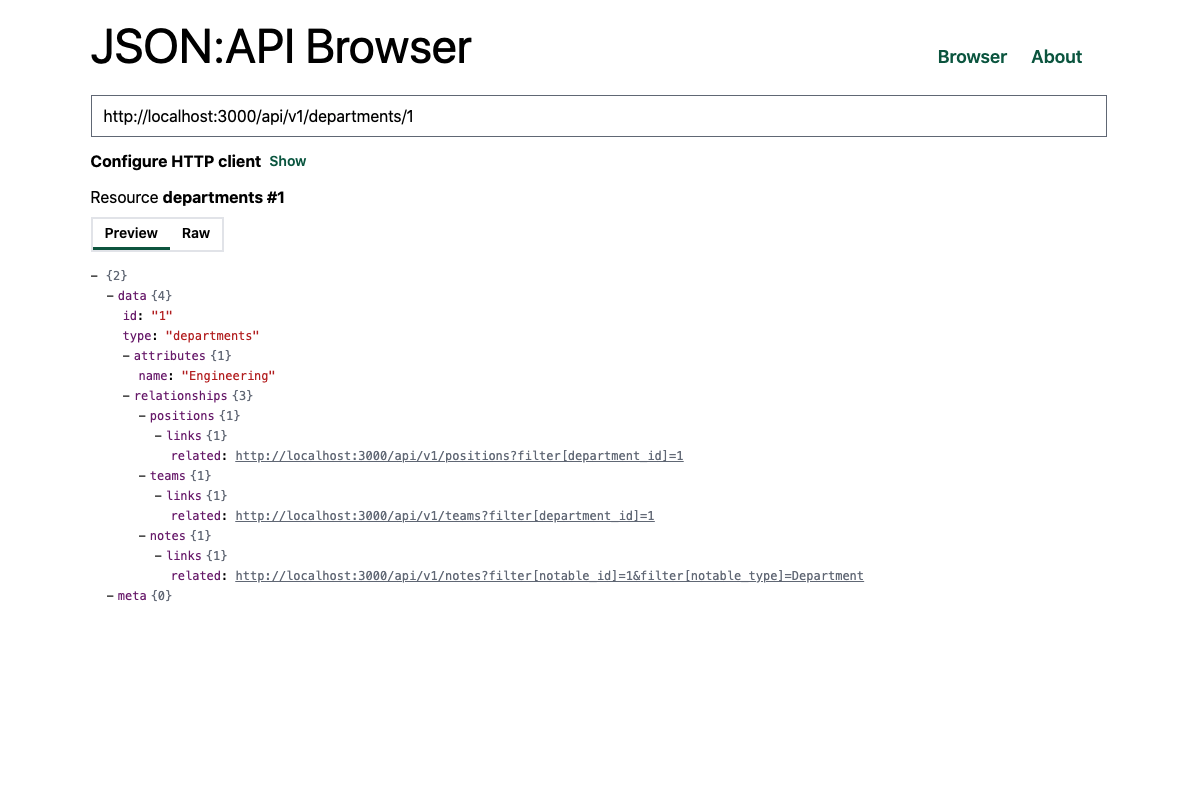
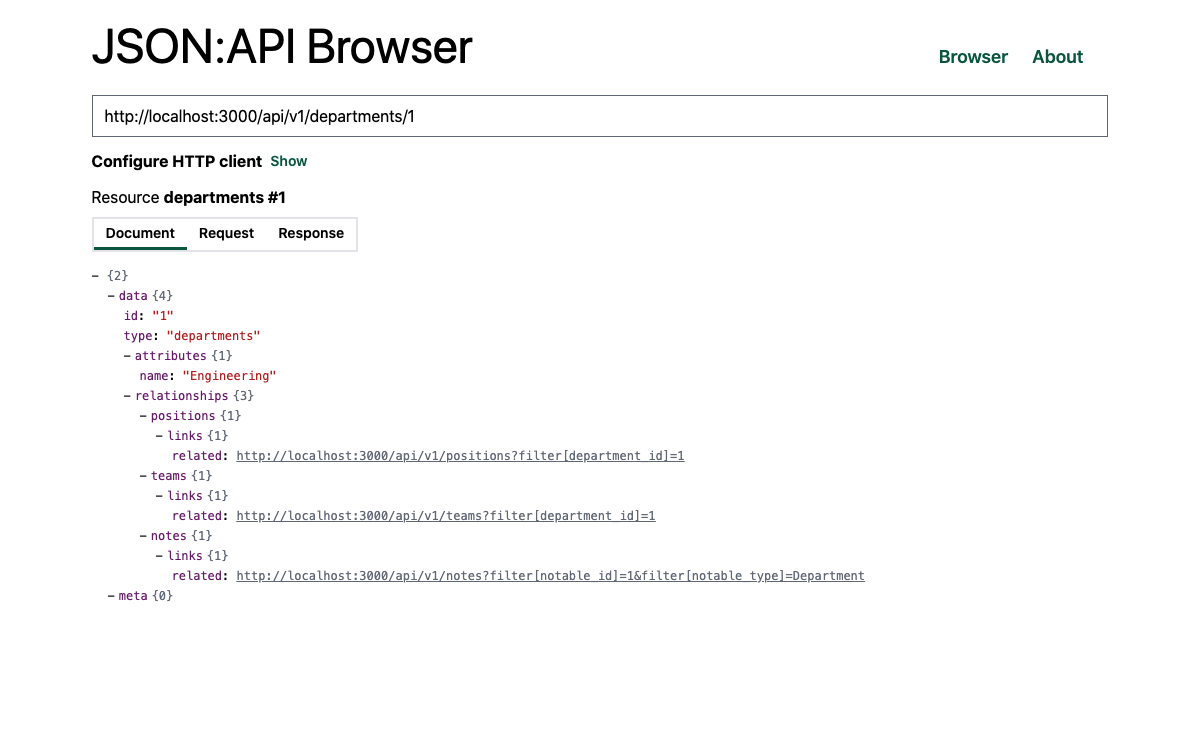
feat: Display HTTP request and response (#7)
* Display HTTP request and response.

* Remove raw preview.

This is posible to see the raw docoument in the response.

* Fix response body.

* Update screenshot.

* Bump version.

* Fix response body intentation.

diff --git a/src/views/Browser.vue b/src/views/Browser.vue
@@ -1,10 +1,11 @@
 <script setup lang="ts">
 import { ref, watch, computed } from 'vue'
-import { JsonApi, HttpAdapters } from 'jsonapi-metal-client'
+import { JsonApi, HttpAdapter, HttpAdapters } from 'jsonapi-metal-client'
 import { useJsonApiBrowserHistory } from '../composables/useJsonApiBrowserHistory'
 import ClientConfigurationForm from '../components/ClientConfigurationForm.vue'
 import BrowserControls from '../components/BrowserControls.vue'
-import JsonApiDocumentRaw from '../components/JsonApiDocument/Raw.vue'
+import Request from '../components/Request.vue'
+import Response from '../components/Response.vue'
 import JsonApiDocumentTree from '../components/JsonApiDocument/Tree.vue'
 import JsonApiDocumentDescription from '../components/JsonApiDocument/Description'
 import { RequestConfiguration } from '../models/RequestConfiguration'
@@ -24,7 +25,9 @@ const requestConfiguration = ref<RequestConfiguration>({
   headers: []
 })
 const location = ref<string>('')
-const tab = ref<string>('preview')
+const tab = ref<string>('document')
+const request = ref<HttpAdapter.AdapterRequest>()
+const response = ref<HttpAdapter.AdapterResponse>()
 const requested = ref<boolean>(false)
 const isSuccess = ref<boolean>(true)
 const document = ref<JsonApi.Specification.Document>()
@@ -42,11 +45,15 @@ const onNavigate = (url: string) => {
 const navigate = (url: string) => {
   location.value = url
   document.value = undefined
+  request.value = undefined
+  response.value = undefined
   client.fetch(url)
     .then((result) => {
       isSuccess.value = result.isSuccess
       requested.value = true
       document.value = result.document ? result.document : undefined
+      request.value = result.request
+      response.value = result.response
     })
     .catch(() => {
       isSuccess.value = false
@@ -88,37 +95,52 @@ watch(() => requestConfiguration.value, () => {
           <template v-if="!isSuccess">
               <p class="text-red-900">An error occured.</p>
           </template>
-          <template v-if="document">
+          <template v-if="document || request || response">
             <div>
-              <div class="my-2">
+              <div class="my-2" v-if="document">
                 <JsonApiDocumentDescription :document="document" />
               </div>
               <div class="inline-flex flex-row border-2 w-auto mb-4">
                 <button
+                  v-if="request"
                   class="p-3 border-b-3 hover:bg-gray-100 font-semibold text-sm py-1"
                   :class="{
-                    'border-primary-800': tab === 'preview',
-                    'border-transparent': tab !== 'preview'
+                    'border-primary-800': tab === 'document',
+                    'border-transparent': tab !== 'document'
                   }"
-                  @click="tab = 'preview'">
-                  Preview
+                  @click="tab = 'document'">
+                  Document
                 </button>
                 <button
+                  v-if="request"
                   class="p-3 border-b-3 hover:bg-gray-100 font-semibold text-sm py-1"
                   :class="{
-                    'border-primary-800': tab === 'raw',
-                    'border-transparent': tab !== 'raw'
+                    'border-primary-800': tab === 'request',
+                    'border-transparent': tab !== 'request'
                   }"
-                  @click="tab = 'raw'">
-                  Raw
+                  @click="tab = 'request'">
+                  Request
+                </button>
+                <button
+                  v-if="response"
+                  class="p-3 border-b-3 hover:bg-gray-100 font-semibold text-sm py-1"
+                  :class="{
+                    'border-primary-800': tab === 'response',
+                    'border-transparent': tab !== 'response'
+                  }"
+                  @click="tab = 'response'">
+                  Response
                 </button>
               </div>
               <KeepAlive>
-                <template v-if="tab == 'preview'">
-                  <JsonApiDocumentTree :document="document" @navigate="onNavigate"/>
+                <template v-if="tab == 'document'">
+                  <JsonApiDocumentTree :document="document" @navigate="onNavigate" v-if="document"/>
                 </template>
-                <template v-else-if="tab == 'raw'">
-                  <JsonApiDocumentRaw :document="document" />
+                <template v-else-if="tab == 'request'">
+                  <Request :request="request" v-if="request" />
+                </template>
+                <template v-else-if="tab == 'response'">
+                  <Response :response="response" v-if="response" />
                 </template>
               </KeepAlive>
             </div>

diff --git a/src/components/Response.vue b/src/components/Response.vue
@@ -1,0 +1,39 @@
+<script setup lang="ts">
+import { ref, computed } from 'vue'
+import { HttpAdapter } from 'jsonapi-metal-client'
+
+const props = defineProps<{ response: HttpAdapter.AdapterResponse }>()
+
+const body = computed(() => {
+  try {
+    if (props.response.body) {
+      return JSON.stringify(JSON.parse(props.response.body), null, 2)
+    } else {
+      return ''
+    }
+  } catch (e) {
+    return ''
+  }
+})
+
+</script>
+
+<template>
+  <h3 class="text-lg">Response</h3>
+  <dl>
+    <dt>Status</dt>
+    <dd class="mb-1">
+      <pre class="overflow-y-auto text-xs text-gray-700">{{ response.status }}</pre>
+    </dd>
+
+    <dt>Headers</dt>
+    <dd class="mb-1">
+      <pre class="overflow-y-auto text-xs text-gray-700">{{ response.headers }}</pre>
+    </dd>
+
+    <dt>Body</dt>
+    <dd class="mb-1">
+      <pre class="overflow-y-auto text-xs text-gray-700">{{ body }}</pre>
+    </dd>
+  </dl>
+</template>

diff --git a/src/components/Request.vue b/src/components/Request.vue
@@ -1,0 +1,27 @@
+<script setup lang="ts">
+import { ref } from 'vue'
+import { HttpAdapter } from 'jsonapi-metal-client'
+
+defineProps<{ request: HttpAdapter.AdapterRequest }>()
+
+</script>
+
+<template>
+  <h3 class="text-lg">Request</h3>
+  <dl>
+    <dt>URL</dt>
+    <dd class="mb-1">
+      <pre class="overflow-y-auto text-xs text-gray-700">{{ request.url }}</pre>
+    </dd>
+
+    <dt>Headers</dt>
+    <dd class="mb-1">
+      <pre class="overflow-y-auto text-xs text-gray-700">{{ request.headers }}</pre>
+    </dd>
+
+    <dt>Body</dt>
+    <dd class="mb-1">
+      <pre class="overflow-y-auto text-xs text-gray-700">{{ request.body }}</pre>
+    </dd>
+  </dl>
+</template>
